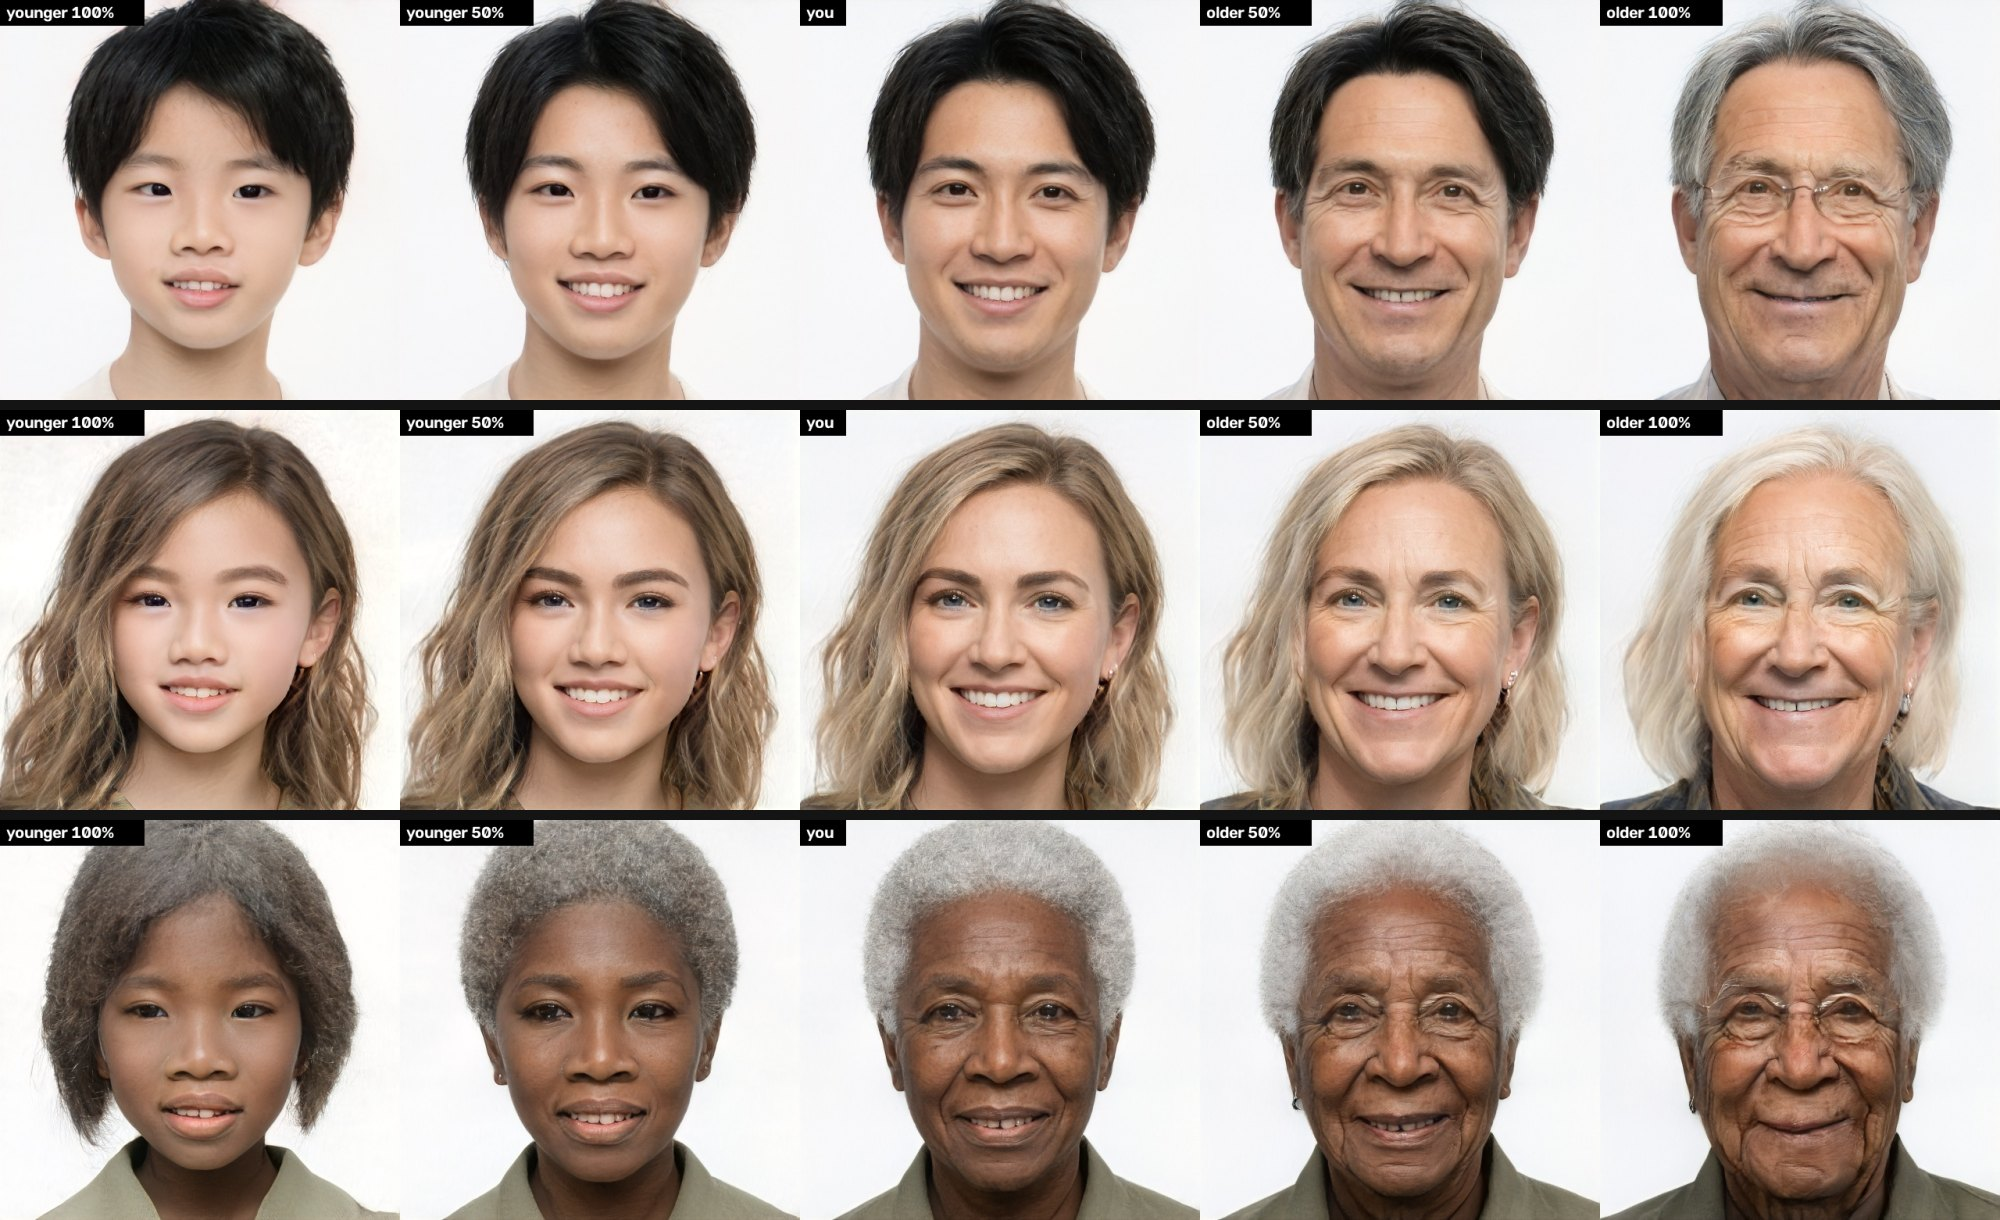
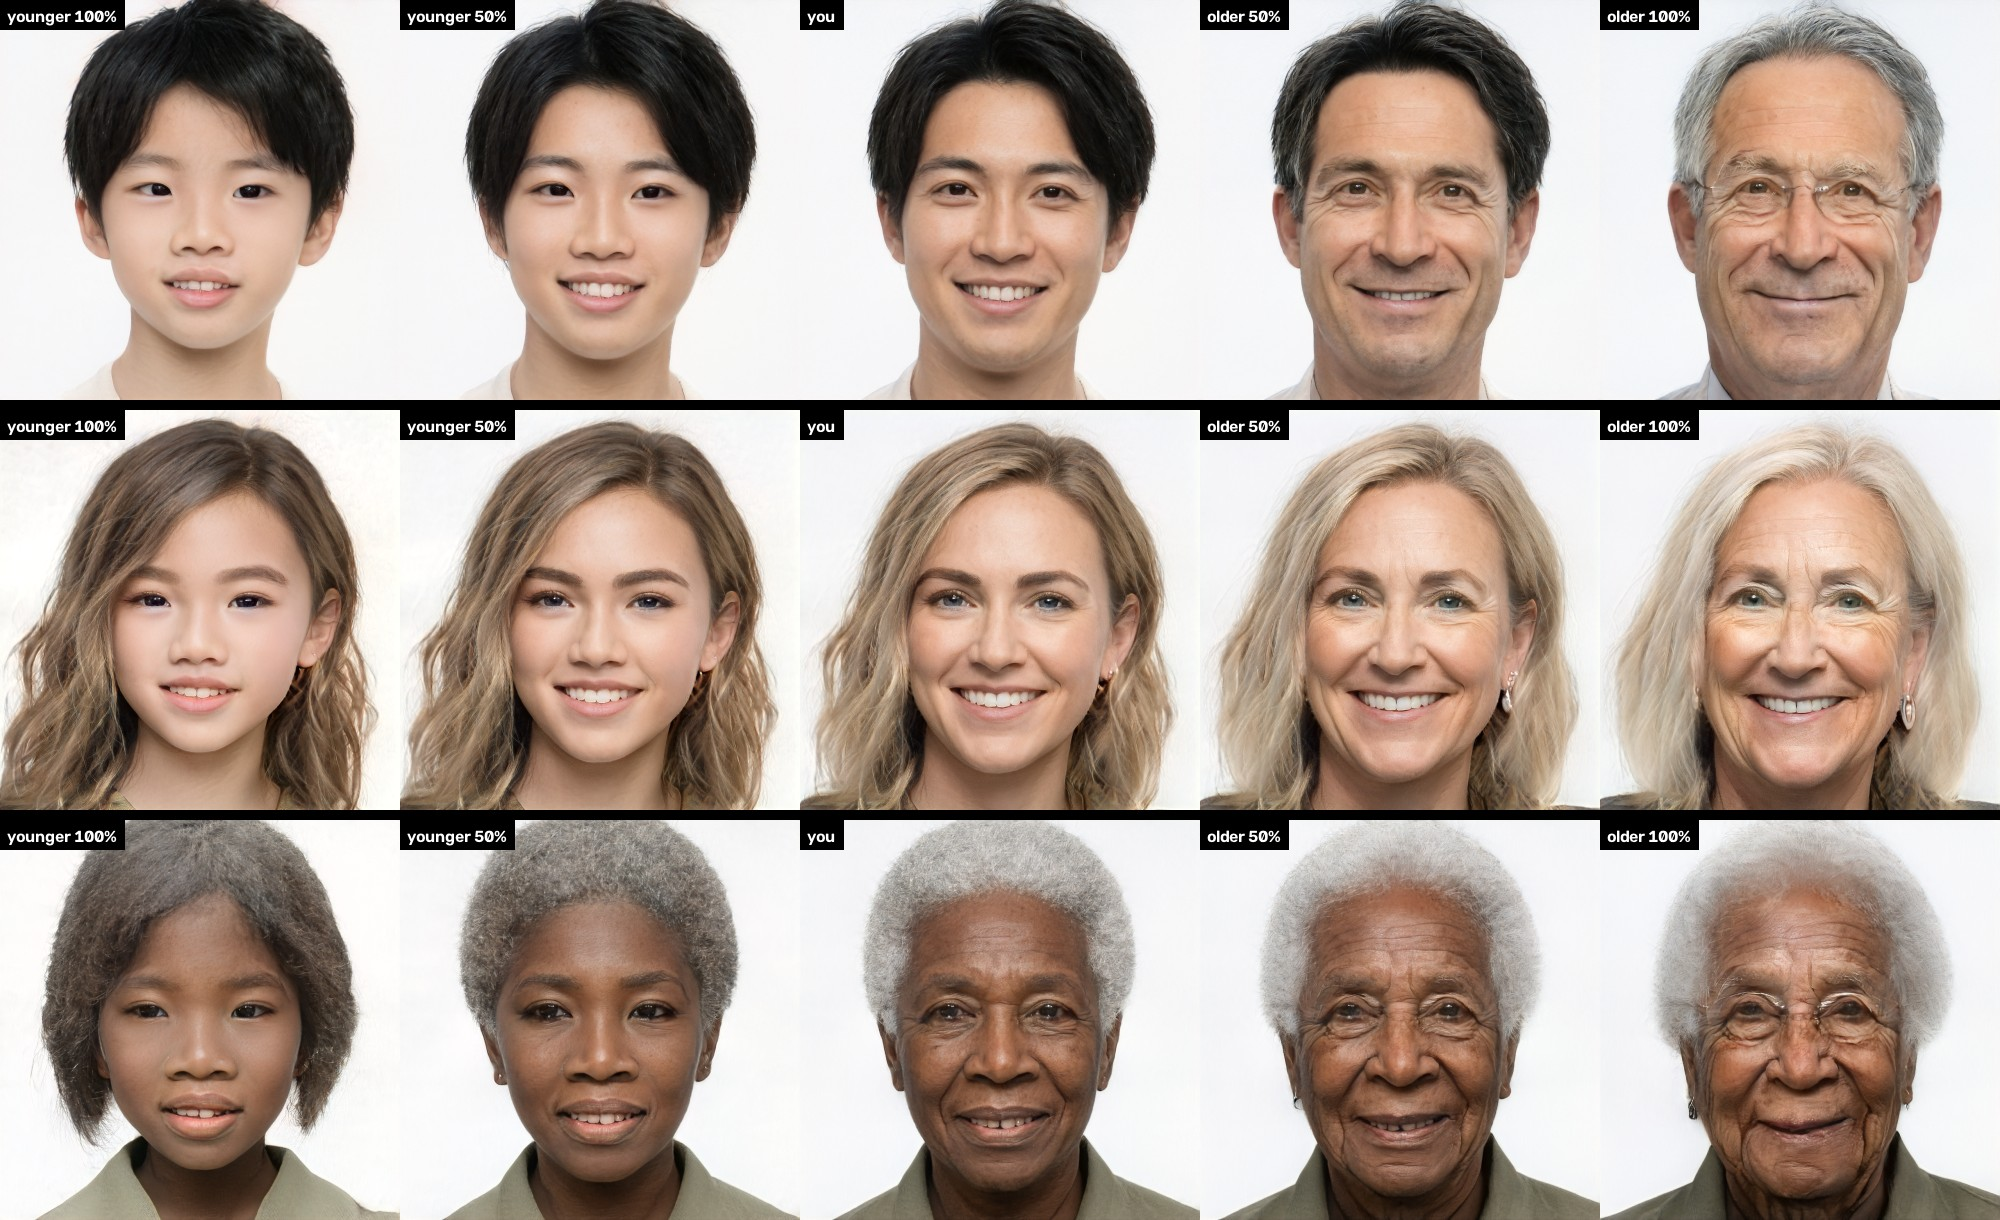
Keep gender: older women no longer turn masculine at the old end (a push back along the gender direction as far as the face is aged; FairFace missed it on long hair); new sample sheet

diff --git a/chronos/pipeline.py b/chronos/pipeline.py
@@ -78,6 +78,7 @@ class AgeShifter:
     SURE = 0.8                  # Auto trusts FairFace's reading only this sure
     KEEP_GENDER_STEP = 1.2      # how far each nudge back goes (the swap itself uses 5)
     KEEP_GENDER_TRIES = 6
+    AGE_GENDER_HOLD = 2.0       # the push back towards the kept gender, per unit of ageing (see age())
 
     def _p(self, image, gender):
         """FairFace's probability that `image` (an aligned face) is `gender`."""
@@ -178,6 +179,12 @@ class AgeShifter:
                 results = []
                 for a in (amounts if amounts is not None else [amount]):
                     w_edit = self.edit(w, a)
+                    if keep_gender and a > 0.05:
+                        # ageing drifts a face towards male (heavier brows and jaw, StyleGAN learned that from
+                        # FFHQ's older faces), and FairFace doesn't see it on a woman with long hair: so a
+                        # push back along the gender direction, as far as the face is aged, before the check
+                        sign = -1.0 if gender == 'female' else 1.0
+                        w_edit[:, EDIT_LAYERS] += sign * self.AGE_GENDER_HOLD * a * self.gender_direction
                     if keep_gender and abs(a) > 0.05:
                         w_edit = self._keep_gender(w_edit, gender, p_gender)
                     edited = to_image(self.generator(w_edit))

diff --git a/README.md b/README.md
@@ -85,8 +85,10 @@ Changeling's look: **Before** and **After** side by side, the controls on the ri
 3. **Pivotal tuning** ([PTI](https://github.com/danielroich/PTI)): briefly fine-tune the generator on the face so the result still looks like it (skipped at Fast).
 4. **Edit**: move the latent along a learned age direction ([source](https://github.com/a312863063/generators-with-stylegan2)).
 5. **Keep gender**: in this generator age and gender are tangled (an old woman aged further starts to look like
-   a man), though their two directions are nearly at right angles. So FairFace reads each result, and one that
-   has drifted is nudged back along the gender direction until it reads as the original again.
+   a man: heavier brows and jaw, as StyleGAN learned from FFHQ's older faces), though their two directions are
+   nearly at right angles. So every older result is pushed back along the gender direction as far as it was aged
+   (FairFace alone missed it: it reads an older woman with long hair as female even when her face has gone
+   masculine). Then FairFace reads the result, and one that has still drifted is nudged back further.
 
 Known limit: the youngest end can drift a face's ethnicity (age and ethnicity are tangled the same way); a
 keep for that is planned.
